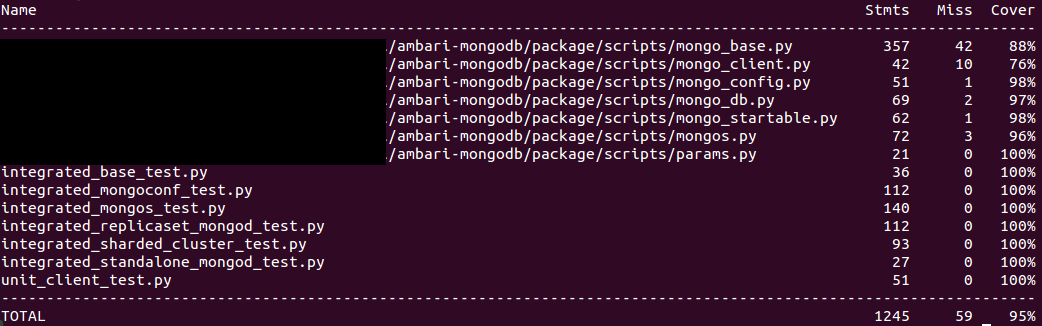
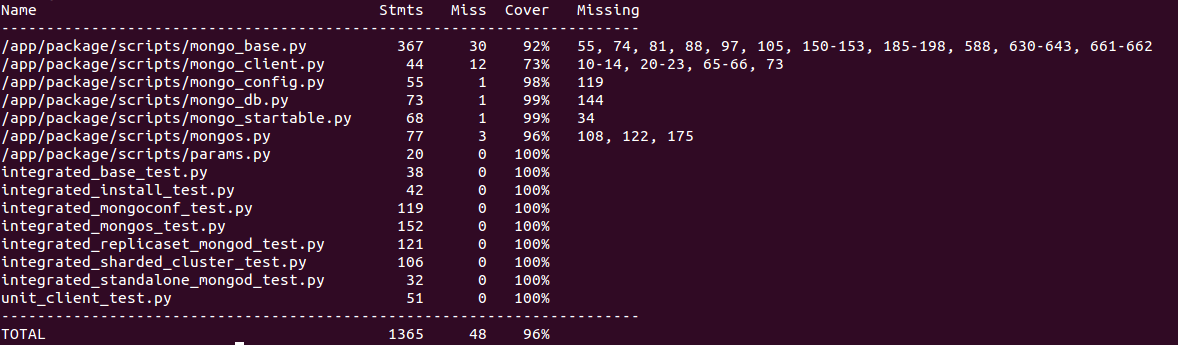
Travis support. All tests working. Coverage support.

diff --git a/package/test/integrated_replicaset_mongod_test.py b/package/test/integrated_replicaset_mongod_test.py
@@ -27,7 +27,7 @@ class IntegratedReplicaMongodTestCase(IntegratedBaseTestCase):
         self.as_super = super(IntegratedReplicaMongodTestCase, self)
         self.as_super.setUp()
         params.try_interval = 4
-        params.times_to_try = 2
+        params.times_to_try = 10
         # Configuring and Installing mongod dependencies
         server = MongoDBServer()
         server.my_hostname = 'node1.test.com'
@@ -412,6 +412,9 @@ class IntegratedReplicaMongodTestCase(IntegratedBaseTestCase):
                            repl_role="SECONDARY")])]
 
         clusterStatus = server1.getClusterStatus(server1.getClusterData())
+        print "\n\n\n\n\n clusterStatus: " + str(clusterStatus) + '\n\n\n\n\n\n'
+        print "\n\n\n\n\n expectedClusterStatusServer1On: " + str(expectedClusterStatusServer1On) + '\n\n\n\n\n\n'
+
         self.assertEqual(clusterStatus, expectedClusterStatusServer1On, "The cluster status result for a started node1"
                                                                         " in the replicaset is not right")
 

diff --git a/package/test/integrated_mongoconf_test.py b/package/test/integrated_mongoconf_test.py
@@ -27,7 +27,7 @@ class IntegratedMongoConfTestCase(IntegratedBaseTestCase):
         self.as_super = super(IntegratedMongoConfTestCase, self)
         self.as_super.setUp()
         params.try_interval = 4
-        params.times_to_try = 2
+        params.times_to_try = 10
         # Configuring and Installing mongo config dependencies
         server = MongoConfigServer()
         server.my_hostname = 'node1.test.com'

diff --git a/package/test/integrated_mongos_test.py b/package/test/integrated_mongos_test.py
@@ -29,7 +29,7 @@ class IntegratedMongoConfTestCase(IntegratedBaseTestCase):
         self.as_super.setUp()
         self.config_server = None
         params.try_interval = 4
-        params.times_to_try = 2
+        params.times_to_try = 10
         # Configuring and Installing mongo config dependencies
         server = MongoConfigServer()
         server.my_hostname = 'node1.test.com'

diff --git a/package/test/integrated_sharded_cluster_test.py b/package/test/integrated_sharded_cluster_test.py
@@ -31,7 +31,7 @@ class IntegratedShardedClusterTestCase(IntegratedBaseTestCase):
         self.config_server = None
         self.mongos_server = None
         params.try_interval = 4
-        params.times_to_try = 2
+        params.times_to_try = 10
 
         # Configuring and Installing mongo config dependencies
         server = MongoDBServer()

diff --git a/package/test/integrated_base_test.py b/package/test/integrated_base_test.py
@@ -10,7 +10,7 @@ SERVICE_DIR = os.path.join(SCRIPT_DIR, '../')
 
 class IntegratedBaseTestCase(unittest.TestCase):
 
-    SLEEP_INTERVAL_AFTER_START_A_INSTANCE = 5
+    SLEEP_INTERVAL_AFTER_START_A_INSTANCE = 10
 
     @classmethod
     def setUpClass(cls):
